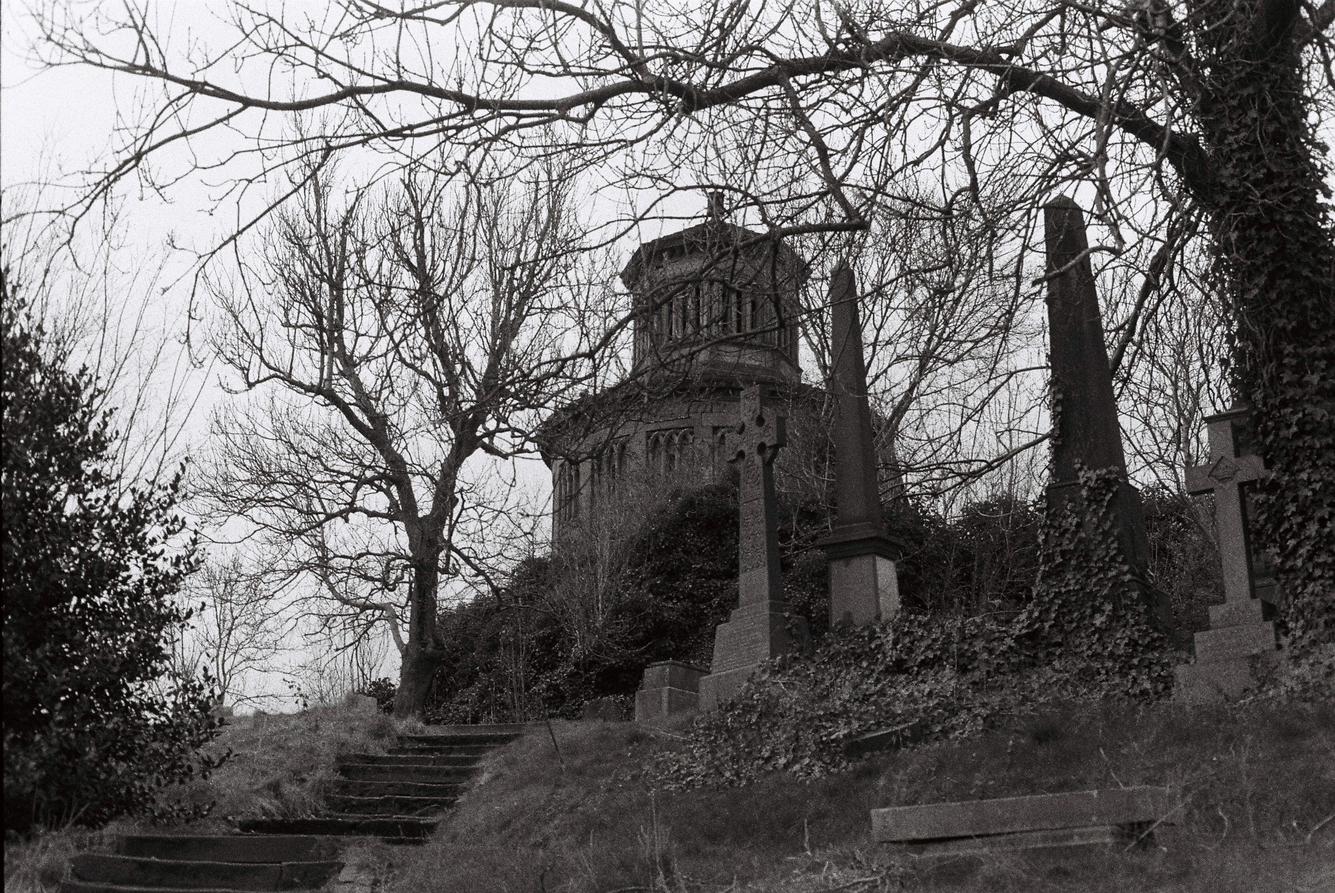
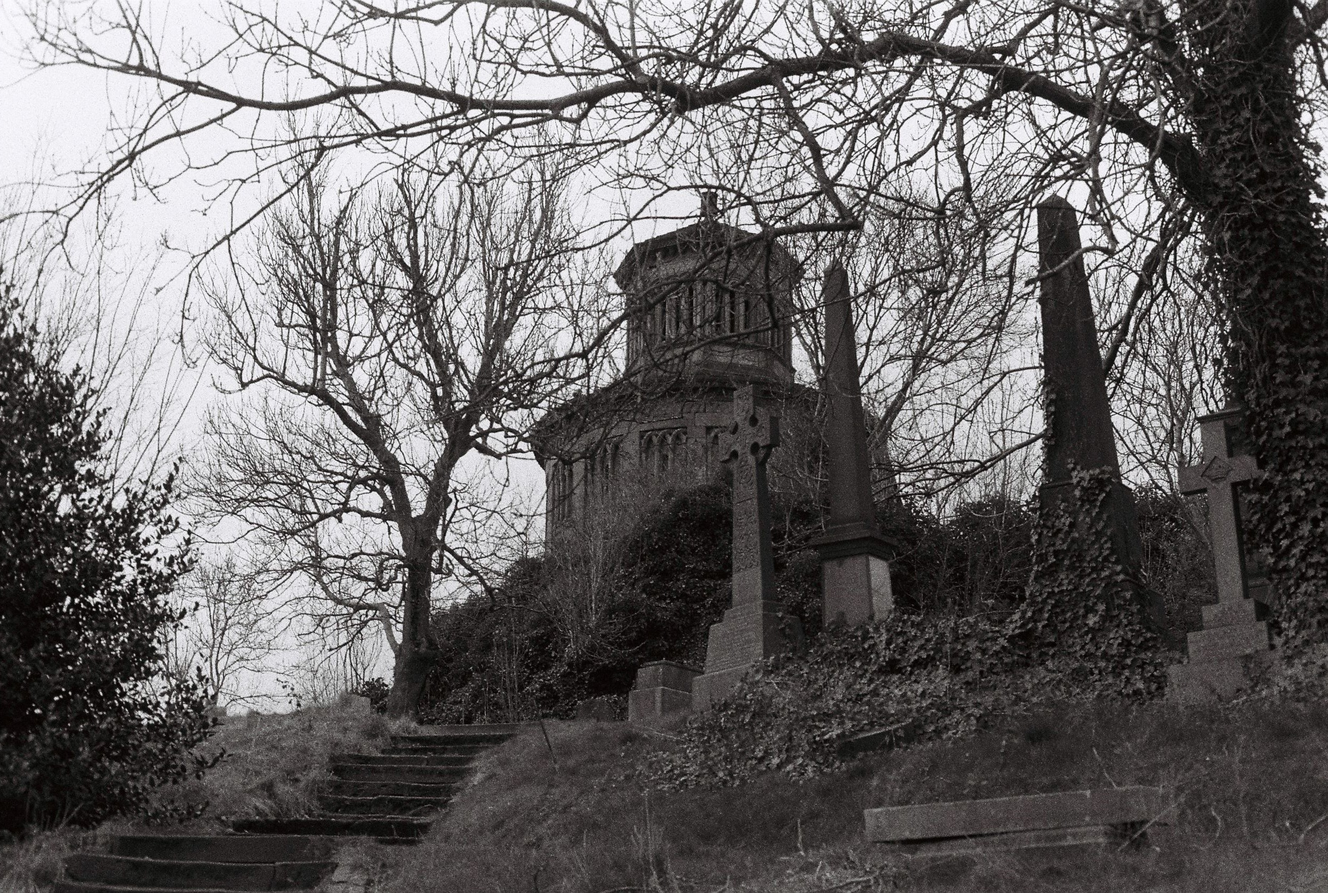
Fix size of background image

diff --git a/assets/css/style.css b/assets/css/style.css
@@ -57,21 +57,21 @@ h1 {
 /* Glasgow Necro Image */
 
 #glasgow-necro-outer {
-    height: 1675px;
-    width: 2053px;
+    height: 400px;
+    width: 100%;
     overflow: hidden;
 
 }
 
 #glasgow-necro {
-    height: 50%;
-    width: 50%;
+    height: 400px;
+    width: 100%;
     background: url('../images/glasgow-necro.JPG') no-repeat center center;
+    background-size: contain;
     /* animates zoom effect on loading page */
     animation-name: glasgow-necro-zoom;
     animation-duration: 5s;
     animation-fill-mode: forwards;
-
 }
 
 /* creates the level of zoom for glasgow-necro image*/
